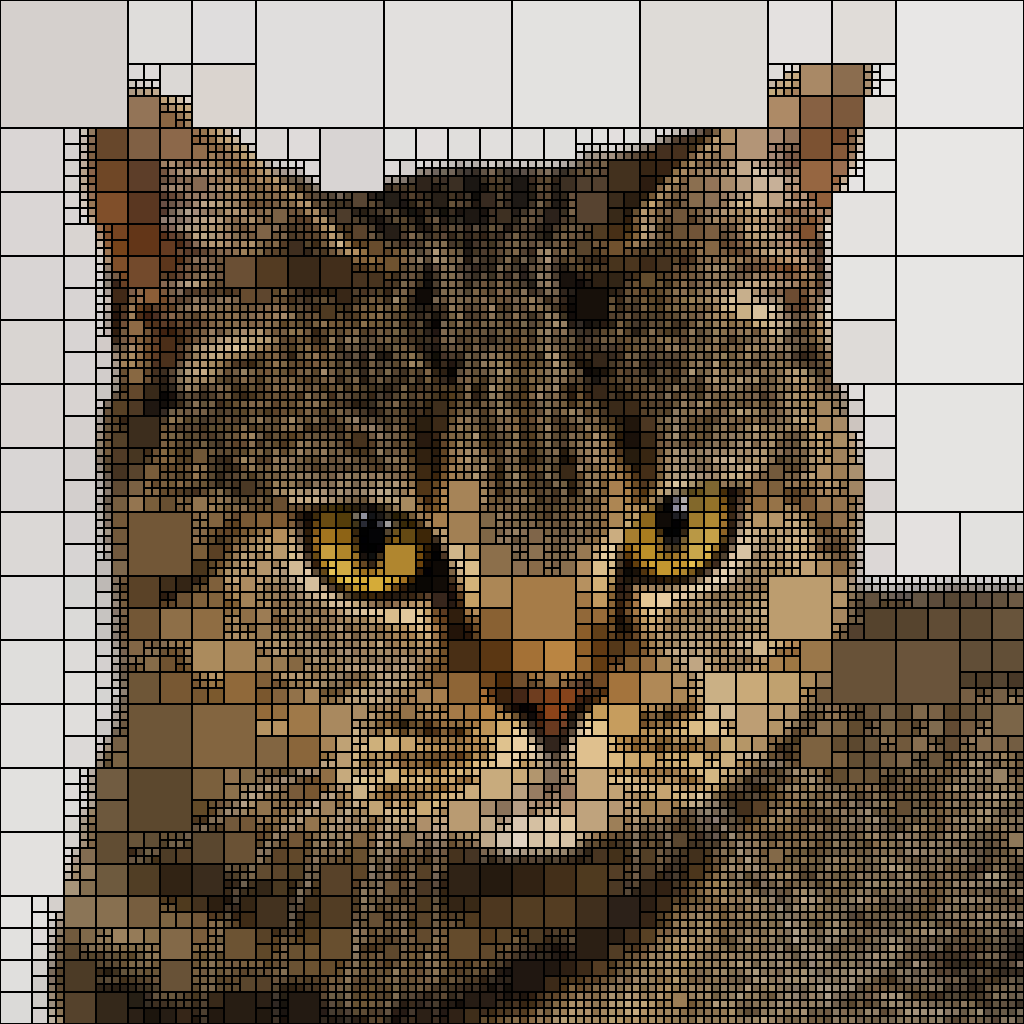
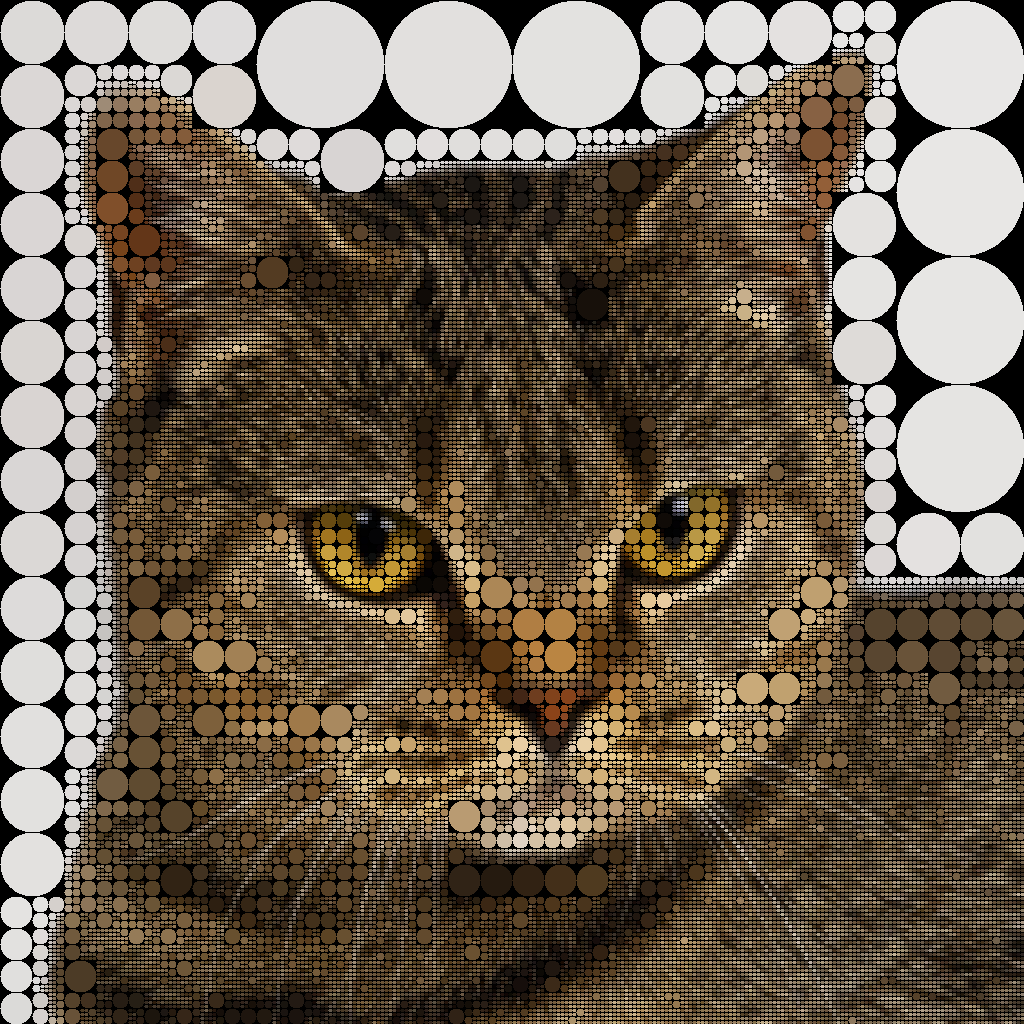
add circle drawing

diff --git a/quad.java b/quad.java
@@ -9,42 +9,9 @@ import javax.imageio.ImageIO;
 public class quad {
 
 	static int threshold = 45;
-
-	public static void makeGray(BufferedImage img) {
-		for (int x = 0; x < img.getWidth(); ++x)
-			for (int y = 0; y < img.getHeight(); ++y) {
-				int rgb = img.getRGB(x, y);
-				int r = (rgb >> 16) & 0xFF;
-				int g = (rgb >> 8) & 0xFF;
-				int b = (rgb & 0xFF);
-
-				// Normalize and gamma correct:
-				double rr = Math.pow(r / 255.0, 2.2);
-				double gg = Math.pow(g / 255.0, 2.2);
-				double bb = Math.pow(b / 255.0, 2.2);
-
-				// Calculate luminance:
-				double lum = 0.2126 * rr + 0.7152 * gg + 0.0722 * bb;
-
-				// Gamma compand and rescale to byte range:
-				int grayLevel = (int) (255.0 * Math.pow(lum, 1.0 / 2.2));
-				int gray = (grayLevel << 16) + (grayLevel << 8) + grayLevel;
-				img.setRGB(x, y, gray);
-			}
-	}
-
-	/*
-	 * static double entropy(BufferedImage img, int x, int y, int sz) { int[]
-	 * pdf = new int[256]; double s = 0; int avg = avg(img, x, y, sz); for (int
-	 * i = x; i < x + sz; i++) { for (int j = y; j < y + sz; j++) { int red =
-	 * new Color(img.getRGB(i, j)).getRed(); pdf[red]++; } } double entropy = 0;
-	 * int sum = 0; // int count = 0; for(int a : pdf){sum+=a;}
-	 * 
-	 * for (int i = 0; i < pdf.length; i++) { if (pdf[i] != 0) { double p =
-	 * (double) pdf[i] / sum; entropy -= p * Math.log(p); } }
-	 * System.out.println(entropy); return entropy; }
-	 */
-	static double entropy1(BufferedImage img, int x, int y, int sz) {
+	static boolean circle;
+	
+	static double entropy(BufferedImage img, int x, int y, int sz) {
 
 		double s = 0;
 		Color avg = avg(img, x, y, sz);
@@ -64,26 +31,22 @@ public class quad {
 
 	static void fill(BufferedImage img, int x, int y, int sz, BufferedImage out) {
 		Color avg = avg(img, x, y, sz);
-		for (int i = x; i < x + sz; i++) {
-			for (int j = y; j < y + sz; j++) {
-				out.setRGB(i, j, avg.getRGB());
-			}
+
+		Graphics g = out.getGraphics();
+		g.setColor(avg);
+		if(circle){
+			g.fillOval(x,y, sz, sz);
+		}else{
+			g.fillRect(x, y, sz, sz);
 		}
+		g.dispose();
 	}
 
 	static void drawRectangle(BufferedImage img, int x, int y, int sz, BufferedImage out) {
-		for (int i = 0; i < sz; i++) {
-			out.setRGB(x, y + i, new Color(0, 0, 0).getRGB());
-			out.setRGB(x + i, y, new Color(0, 0, 0).getRGB());
-			out.setRGB(x + sz - 1, y + i, new Color(0, 0, 0).getRGB());
-			out.setRGB(x + i, y + sz - 1, new Color(0, 0, 0).getRGB());
-		}
-		// Graphics g = out.getGraphics();
-		// g.setColor(Color.RED);
-		// g.fillOval(x, y, sz, sz);
-
-		// g.dispose(); // get rid of the Graphics context to save resources
-
+		Graphics g = out.getGraphics();
+		g.setColor(Color.BLACK);
+		g.drawRect(x, y, sz, sz);
+		g.dispose(); 
 	}
 
 	static Color avg(BufferedImage img, int x, int y, int sz) {
@@ -106,28 +69,38 @@ public class quad {
 	}
 
 	static void rec(BufferedImage img, int x, int y, int sz, BufferedImage out) {
-		if (sz <= 8) {
+		if (sz <= 4) {
 			fill(img, x, y, sz, out);
-			drawRectangle(img, x, y, sz, out);
+			if(!circle){
+				drawRectangle(img, x, y, sz, out);
+			}
 			return;
 		}
 
-		if (entropy1(img, x, y, sz) > threshold) {
+		if (entropy(img, x, y, sz) > threshold) {
 			rec(img, x + sz / 2, y, sz / 2, out);
 			rec(img, x + sz / 2, y + sz / 2, sz / 2, out);
 			rec(img, x, y, sz / 2, out);
 			rec(img, x, y + sz / 2, sz / 2, out);
 		} else {
 			fill(img, x, y, sz, out);
-			drawRectangle(img, x, y, sz, out);
+			if(!circle){
+				drawRectangle(img, x, y, sz, out);
+			}
 		}
 	}
 
 	public static void main(String[] args) throws IOException {
-
+		circle = false;
 		String pathToImage = args[0];
 		if (args.length >= 2) {
 			threshold = Integer.parseInt(args[1]);
+		}
+
+		if(args.length >= 3){
+			if(args[2].equals("c")){
+				circle = true;
+			}
 		}
 
 		BufferedImage image = ImageIO.read(new File(pathToImage));
